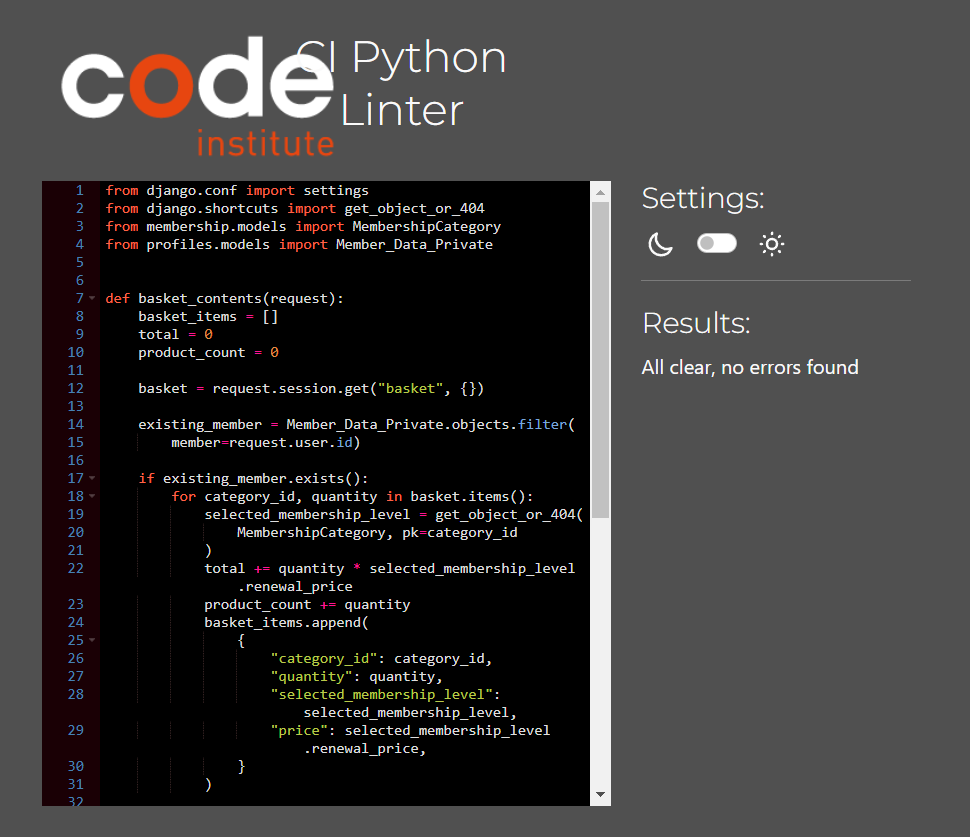
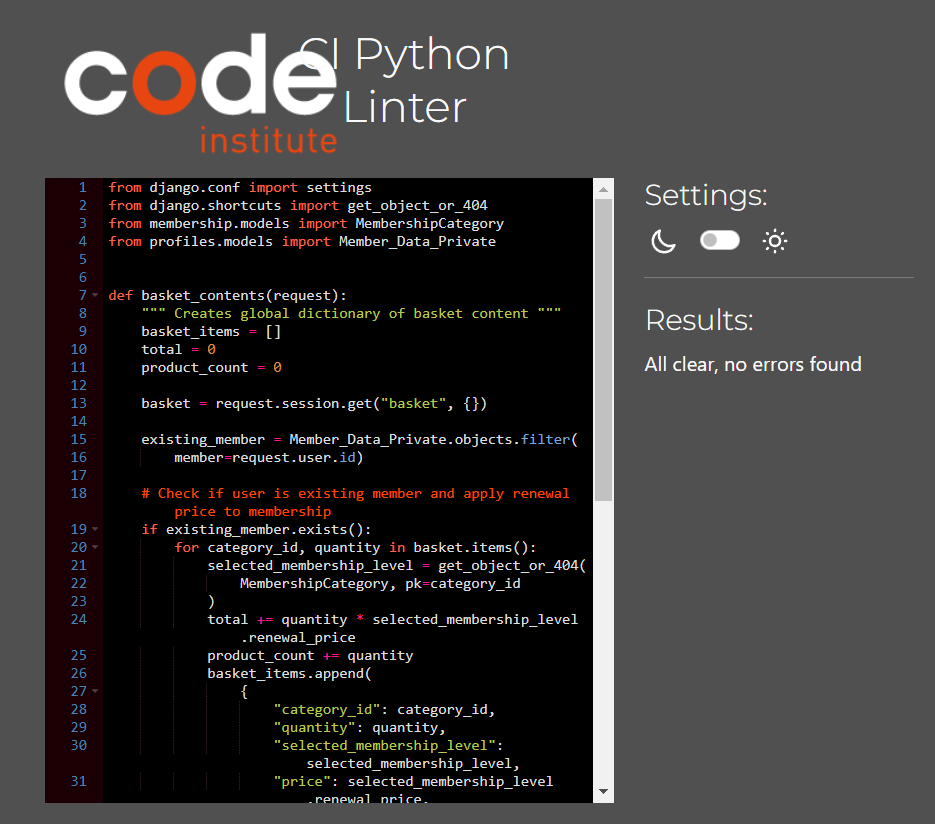
Add images and text to python validation part of testing.md. Add docstrings to some forms and views in various apps

Changed region(s): [[0.031, 0.0303, 0.9305, 1.0]]

diff --git a/checkout/models.py b/checkout/models.py
@@ -9,8 +9,10 @@ from datetime import timedelta
 
 class MembershipPurchase(models.Model):
 
-    purchase_number = models.CharField(max_length=32, null=False, editable=False)
-    member = models.ForeignKey(User, on_delete=models.RESTRICT, null=False, blank=False)
+    purchase_number = models.CharField(
+        max_length=32, null=False, editable=False)
+    member = models.ForeignKey(
+        User, on_delete=models.RESTRICT, null=False, blank=False)
     membership_purchased = models.ForeignKey(
         MembershipCategory, on_delete=models.RESTRICT, null=False, blank=False
     )
@@ -18,7 +20,8 @@ class MembershipPurchase(models.Model):
     purchase_total = models.DecimalField(
         max_digits=10, decimal_places=2, null=False, default=0
     )
-    stripe_pid = models.CharField(max_length=254, null=False, blank=False, default="")
+    stripe_pid = models.CharField(
+        max_length=254, null=False, blank=False, default="")
 
     def _generate_purchase_number(self):
         """
@@ -28,7 +31,7 @@ class MembershipPurchase(models.Model):
 
     def save(self, *args, **kwargs):
         """
-        Override the original save method to set the order 
+        Override the original save method to set the order
         number if it hasn't been set already.
         """
         if not self.purchase_number:
@@ -40,7 +43,8 @@ class MembershipPurchase(models.Model):
         Updates the purchase total dependent on the
         membership level selected.
         """
-        self.purchase_total = Decimal(self.membership_purchased.new_member_price)
+        self.purchase_total = Decimal(
+            self.membership_purchased.new_member_price)
         self.save()
 
     def get_purchase_date(self):

diff --git a/checkout/views.py b/checkout/views.py
@@ -84,9 +84,12 @@ def checkout(request):
                 member_data = {
                     'default_firstname': request.POST["default_firstname"],
                     'default_lastname': request.POST["default_lastname"],
-                    'default_street_address1': request.POST["default_street_address1"],
-                    'default_street_address2': request.POST["default_street_address2"],
-                    'default_town_or_city': request.POST["default_town_or_city"],
+                    'default_street_address1':
+                        request.POST["default_street_address1"],
+                    'default_street_address2':
+                        request.POST["default_street_address2"],
+                    'default_town_or_city':
+                        request.POST["default_town_or_city"],
                     'default_county': request.POST["default_county"],
                     'default_postcode': request.POST["default_postcode"],
                     'default_country': request.POST["default_country"],

diff --git a/checkout/admin.py b/checkout/admin.py
@@ -4,8 +4,9 @@ from .models import MembershipPurchase
 
 @admin.register(MembershipPurchase)
 class MembershipPurchaseAdmin(admin.ModelAdmin):
-    readonly_fields = ('purchase_number', 'purchase_date',  'member', 
+    readonly_fields = ('purchase_number', 'purchase_date',  'member',
                        'membership_purchased', 'purchase_total', 'stripe_pid')
-    list_display = ('purchase_number', 'member', 'membership_purchased', 'purchase_date')
+    list_display = ('purchase_number', 'member', 'membership_purchased',
+                    'purchase_date')
     order = ('-date',)
     search_fields = ['member']

diff --git a/basket/contexts.py b/basket/contexts.py
@@ -5,6 +5,7 @@ from profiles.models import Member_Data_Private
 
 
 def basket_contents(request):
+    """ Creates global dictionary of basket content """
     basket_items = []
     total = 0
     product_count = 0
@@ -14,6 +15,7 @@ def basket_contents(request):
     existing_member = Member_Data_Private.objects.filter(
         member=request.user.id)
 
+    # Check if user is existing member and apply renewal price to membership
     if existing_member.exists():
         for category_id, quantity in basket.items():
             selected_membership_level = get_object_or_404(

diff --git a/profiles/forms.py b/profiles/forms.py
@@ -4,6 +4,7 @@ from membership.models import MembershipCategory
 
 
 class RegistrationForm(forms.ModelForm):
+    """ User selects the desired membership level """
     class Meta:
         model = Member_Data_Private
         fields = ['membership_level']
@@ -13,6 +14,7 @@ class RegistrationForm(forms.ModelForm):
 
 
 class MembershipPublicDataForm(forms.ModelForm):
+    """ User inputs their public profile data """
     class Meta:
         model = Member_Data_Public
         fields = ['public_firstname', 'public_lastname', 'job_title',

diff --git a/membership/forms.py b/membership/forms.py
@@ -3,6 +3,7 @@ from .models import MembershipCategory
 
 
 class RegistrationForm(forms.ModelForm):
+    """ Selects the desired membership level """
     class Meta:
         model = MembershipCategory
         fields = ["name"]

diff --git a/home/forms.py b/home/forms.py
@@ -3,6 +3,7 @@ from .models import Contact
 
 
 class ContactForm(forms.ModelForm):
+    """ Creates a single contact form submission """
     class Meta:
         model = Contact
         fields = ["name", "email", "message"]

diff --git a/TESTING.md b/TESTING.md
@@ -238,33 +238,106 @@ This application was developed with HTML, CSS, Javascript, and Python using the 
 
   
 
-
     #### Checkout App
+    <details><summary>admin.py</summary>
+
+    ![admin.py](documentation/testing/python/screenshot_py_validation_checkout_admin.png)
+    </details>
+    <details><summary>forms.py</summary>
+
+    ![forms.py](documentation/testing/python/screenshot_py_validation_checkout_forms.png)
+    </details>
+    <details><summary>models.py</summary>
+
+    ![models.py](documentation/testing/python/screenshot_py_validation_checkout_models.png)
+    </details>
     <details><summary>urls.py</summary>
 
-    ![urls.py](documentation/testing/python/screenshot_python_booking_urls.png)
+    ![urls.py](documentation/testing/python/screenshot_py_validation_checkout_urls.png)
     </details>
+    <details><summary>views.py - ERRORS - See errors in the Unresolved Bugs Table below</summary>
+
+    ![views.py](documentation/testing/python/screenshot_py_validation_checkout_views.png)
+    </details>
+    <details><summary>webhook_handler.py</summary>
+
+    ![webhook_handler.py](documentation/testing/python/screenshot_py_validation_checkout_webhook_handler.png)
+    </details>
+    <details><summary>webhooks.py</summary>
+
+    ![webhooks.py](documentation/testing/python/screenshot_py_validation_checkout_webhooks.png)
+    </details>
+
     
 
     #### Home App
+    <details><summary>admin.py</summary>
+
+    ![admin.py](documentation/testing/python/screenshot_py_validation_home_admin.png)
+    </details>
+    <details><summary>forms.py</summary>
+
+    ![forms.py](documentation/testing/python/screenshot_py_validation_home_forms.png)
+    </details>
+    <details><summary>models.py</summary>
+
+    ![models.py](documentation/testing/python/screenshot_py_validation_home_models.png)
+    </details>
     <details><summary>urls.py</summary>
 
-    ![urls.py](documentation/testing/python/screenshot_python_booking_urls.png)
+    ![urls.py](documentation/testing/python/screenshot_py_validation_home_urls.png)
+    </details>
+    <details><summary>views.py</summary>
+
+    ![views.py](documentation/testing/python/screenshot_py_validation_home_views.png)
     </details>
 
 
     #### Membership App
+    <details><summary>admin.py</summary>
+
+    ![admin.py](documentation/testing/python/screenshot_py_validation_membership_admin.png)
+    </details>
+    <details><summary>forms.py</summary>
+
+    ![forms.py](documentation/testing/python/screenshot_py_validation_membership_forms.png)
+    </details>
+    <details><summary>models.py</summary>
+
+    ![models.py](documentation/testing/python/screenshot_py_validation_membership_models.png)
+    </details>
     <details><summary>urls.py</summary>
 
-    ![urls.py](documentation/testing/python/screenshot_python_booking_urls.png)
+    ![urls.py](documentation/testing/python/screenshot_py_validation_membership_urls.png)
+    </details>
+    <details><summary>views.py</summary>
+
+    ![views.py](documentation/testing/python/screenshot_py_validation_membership_views.png)
     </details>
 
 
     #### Profiles App
+    <details><summary>admin.py</summary>
+
+    ![admin.py](documentation/testing/python/screenshot_py_validation_profiles_admin.png)
+    </details>
+    <details><summary>forms.py</summary>
+
+    ![forms.py](documentation/testing/python/screenshot_py_validation_profiles_forms.png)
+    </details>
+    <details><summary>models.py</summary>
+
+    ![models.py](documentation/testing/python/screenshot_py_validation_profiles_models.png)
+    </details>
     <details><summary>urls.py</summary>
 
-    ![urls.py](documentation/testing/python/screenshot_python_booking_urls.png)
+    ![urls.py](documentation/testing/python/screenshot_py_validation_profiles_urls.png)
     </details>
+    <details><summary>views.py</summary>
+
+    ![views.py](documentation/testing/python/screenshot_py_validation_profiles_views.png)
+    </details>
+
 
   ### Search Engine Optimization, Accessibility, Best Practices, & Performance
   - #### Google Lighthouse Audits
@@ -523,6 +596,6 @@ This application was developed with HTML, CSS, Javascript, and Python using the 
   | The placeholder set on select option for the country field for the form caused an error. | edit_private_data.html - line 197 | I attempted to remove the blank label from the country field in the Member Private Data model but it did not resolve the issue. I think that it is something that is part of django countryfield module that I could not resolve. |
   | The placeholder set on select option for the country field for the form caused an error. | checkout/checkout.html - line 95, checkout/checkout_existing_member.html - line 92 | This was bug was not resolved. Please see line above for reason. |
   | h1 tag with no content | checkout/checkout.html - line 131, checkout/checkout_existing_member.html - line 128 | The h1 tag is used to hold the loading spinner. This was loading spinner solution was derived from the Boutique Ado project, I chose to leave the code as it was and will resolve this in a future version.
-  | There were a few places that were greater than the 79 character length max | settings.py - line 129 | Was unable to resolve as caused more errors when shortened |
+  | There were a few places that were greater than the 79 character length max | checkout/views.py - 1, 75, 109, 111  | Was unable to shorten the lines to resolve as caused more errors when shortened |
   | There were a few places that were greater than the 79 character length max | views.py | Could not reduce error strings further and was unable to break up the line without causing further problems |
   | HTML errors | account/signup.html | These html errors were inside the built in Django signup form |
